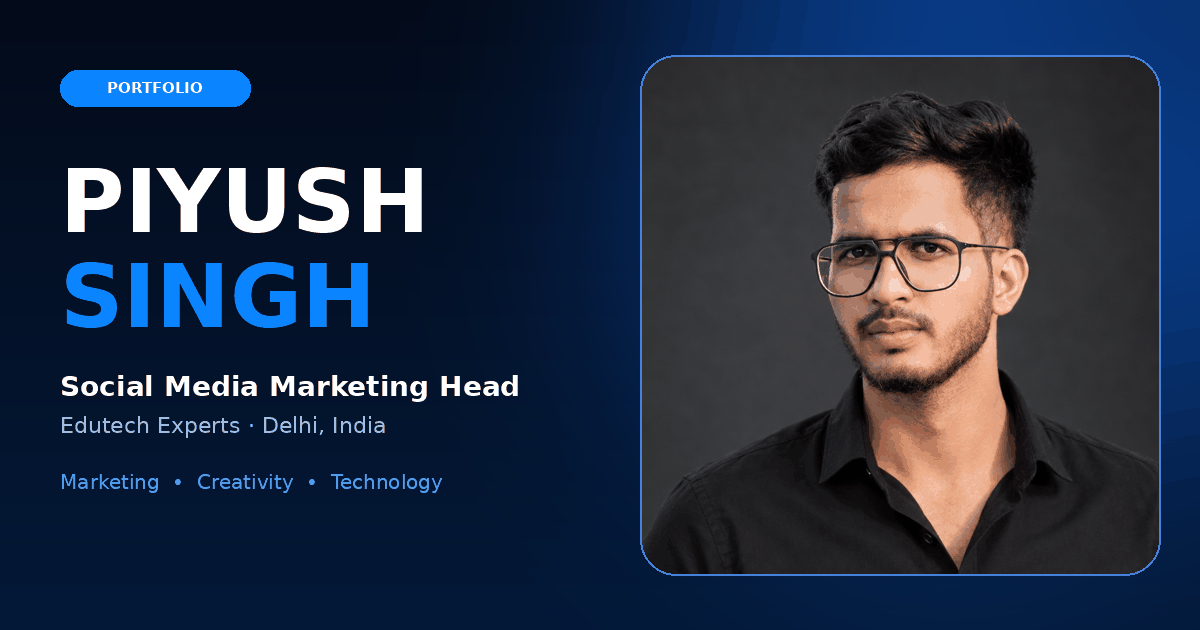
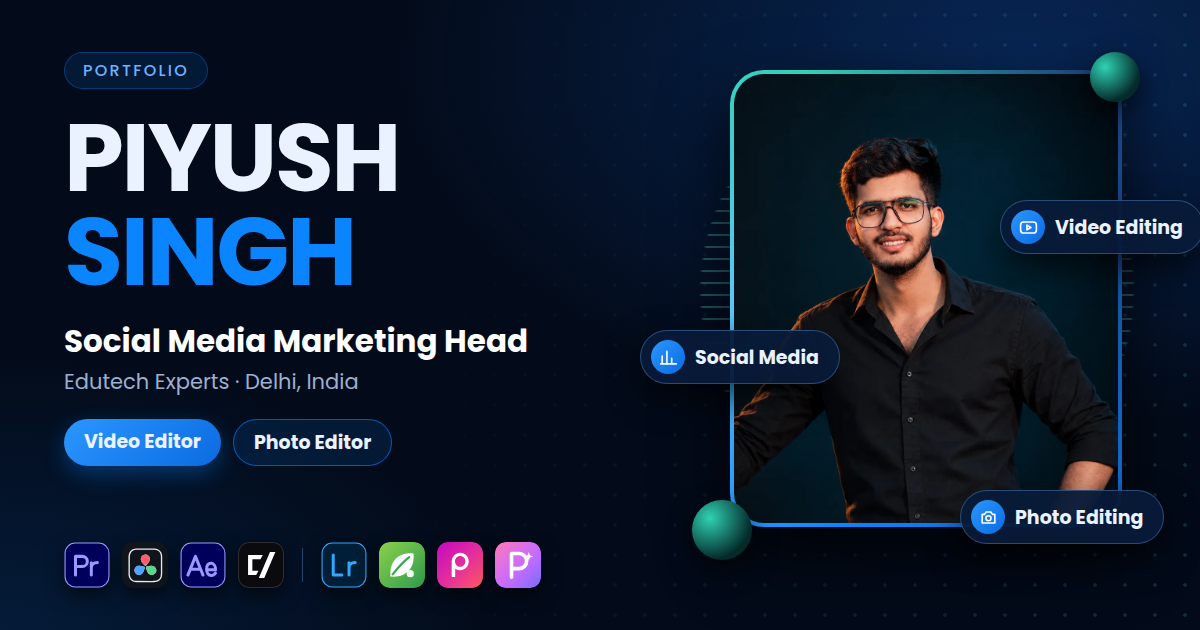
Add files via upload

diff --git a/index.html b/index.html
@@ -9,41 +9,46 @@
 <link rel="canonical" href="https://piyush-portfolio-iota-amber.vercel.app/">
 <meta property="og:type" content="website">
 <meta property="og:site_name" content="Piyush Singh Portfolio">
-<meta property="og:title" content="Piyush Singh | Social Media Marketing Head">
-<meta property="og:description" content="Social Media Marketing Head at Edutech Experts, Delhi. Marketing, creativity and technology.">
+<meta property="og:title" content="Piyush Singh | Social Media Marketing Head, Video &amp; Photo Editor">
+<meta property="og:description" content="Social Media Marketing Head at Edutech Experts, Delhi. Video editing, photo editing, marketing and creative web projects.">
 <meta property="og:url" content="https://piyush-portfolio-iota-amber.vercel.app/">
-<meta property="og:image" content="https://piyush-portfolio-iota-amber.vercel.app/preview.png">
+<meta property="og:image" content="https://piyush-portfolio-iota-amber.vercel.app/preview.png?v=2">
 <meta property="og:image:type" content="image/png">
 <meta property="og:image:width" content="1200">
 <meta property="og:image:height" content="630">
-<meta property="og:image:alt" content="Piyush Singh, Social Media Marketing Head at Edutech Experts">
+<meta property="og:image:alt" content="Piyush Singh, Social Media Marketing Head, Video Editor and Photo Editor at Edutech Experts, Delhi">
 <meta name="twitter:card" content="summary_large_image">
-<meta name="twitter:title" content="Piyush Singh | Social Media Marketing Head">
-<meta name="twitter:description" content="Social Media Marketing Head at Edutech Experts, Delhi. Marketing, creativity and technology.">
-<meta name="twitter:image" content="https://piyush-portfolio-iota-amber.vercel.app/preview.png">
+<meta name="twitter:title" content="Piyush Singh | Social Media Marketing Head, Video &amp; Photo Editor">
+<meta name="twitter:description" content="Social Media Marketing Head at Edutech Experts, Delhi. Video editing, photo editing, marketing and creative web projects.">
+<meta name="twitter:image" content="https://piyush-portfolio-iota-amber.vercel.app/preview.png?v=2">
 <link rel="icon" href="favicon.svg" type="image/svg+xml">
 <link rel="icon" href="favicon.ico" sizes="any">
 <link rel="icon" href="assets/favicon-32.png" type="image/png" sizes="32x32">
 <link rel="apple-touch-icon" href="assets/apple-touch-icon.png">
 <link rel="preconnect" href="https://fonts.googleapis.com"><link rel="preconnect" href="https://fonts.gstatic.com" crossorigin>
 <link href="https://fonts.googleapis.com/css2?family=Space+Grotesk:wght@400;500;600;700&amp;display=swap" rel="stylesheet">
+<link rel="preload" as="image" href="assets/hero-photo-981.webp" type="image/webp" imagesrcset="assets/hero-photo-560.webp 560w, assets/hero-photo-981.webp 981w" imagesizes="(max-width:820px) 86vw, 440px" fetchpriority="high">
 <link rel="stylesheet" href="css/style.css">
 <script>document.documentElement.classList.add("js")</script>
 </head><body>
 <a class="skip" href="#about">Skip to content</a>
 <nav aria-label="Main"><div class="w"><a class="logo" href="#top"><b>P</b>PIYUSH</a>
-<div class="links" id="lk"><a href="#top">Home</a><a href="#about">About</a><a href="#skills">Skills</a><a href="#projects">Projects</a><a href="#contact">Contact</a></div>
+<div class="links" id="lk"><a href="#top">Home</a><a href="#about">About</a><a href="#skills">Skills</a><a href="#video-editing">Video Editing</a><a href="#photo-editing">Photo Editing</a><a href="#projects">Projects</a><a href="#contact">Contact</a></div>
 <a class="btn" href="#contact">Let’s Talk</a><button id="mb" aria-label="Toggle menu" aria-expanded="false" aria-controls="lk">☰</button></div></nav>
 <header id="top"><section id="hero"><div class="w hg">
 <div class="hero-t"><span class="tag">Delhi, India</span>
 <h1 aria-label="Hi! I’m Piyush, Marketing Head">Hi! I’m Piyush<br><span class="b cur" id="ty" aria-hidden="true">Marketing Head</span></h1>
 <p style="margin-top:18px"><b style="color:#fff">Social Media Marketing Head</b> at Edutech Experts. I work on social media, content and digital creativity, and enjoy building practical web and AI projects.</p>
 <div style="display:flex;gap:12px;flex-wrap:wrap;margin-top:24px"><a class="btn" href="#contact">Contact Me →</a><a class="btn o" href="#projects">View My Projects</a></div></div>
-<div class="ph" id="ph"><div class="ring" data-d="14"></div><div class="orb" style="left:8%;top:6%" data-d="30"></div><div class="orb" style="right:4%;bottom:26%;width:44px;height:44px" data-d="-24"></div>
-<img src="assets/hero-photo.jpg" alt="Portrait of Piyush Singh" width="430" height="520" data-d="-8"></div></div></section>
+<div class="ph" id="ph"><div class="ring" data-d="14"></div><div class="orb" style="left:1%;bottom:3%" data-d="30"></div><div class="orb" style="right:0;top:5%;width:44px;height:44px" data-d="-24"></div>
+<div class="pf" data-d="-6"><div class="pf-in"><picture><source type="image/webp" srcset="assets/hero-photo-560.webp 560w, assets/hero-photo-981.webp 981w" sizes="(max-width:820px) 86vw, 440px"><img src="assets/hero-photo.png" alt="Portrait of Piyush Singh" width="981" height="1147" fetchpriority="high" decoding="async"></picture></div>
+<div class="fc fc1" data-d="26" aria-hidden="true"><svg viewBox="0 0 24 24"><path d="M4 20V10M10 20V4M16 20v-7M22 20H2"/></svg><span>Social Media</span></div>
+<div class="fc fc2" data-d="-20" aria-hidden="true"><svg viewBox="0 0 24 24"><rect x="2" y="5" width="20" height="14" rx="4"/><path d="m10 9 5 3-5 3z"/></svg><span>Video Editing</span></div>
+<div class="fc fc3" data-d="18" aria-hidden="true"><svg viewBox="0 0 24 24"><path d="M4 8h3l2-3h6l2 3h3v11H4z"/><circle cx="12" cy="13" r="3.2"/></svg><span>Photo Editing</span></div>
+<span class="sp sp1" aria-hidden="true"></span><span class="sp sp2" aria-hidden="true"></span></div></div></div></section>
 <div class="strip" aria-hidden="true"><div id="mq"></div></div></header>
 <main>
-<section id="about"><div class="w ag"><div class="ap rv"><picture><source srcset="assets/about-photo.webp" type="image/webp"><img src="assets/about-photo.png" alt="Piyush Singh seated at his desk" width="1024" height="1536" loading="lazy" decoding="async"></picture></div>
+<section id="about"><div class="w ag"><div class="ap" data-reveal><span class="ap-grid" aria-hidden="true"></span><span class="ap-back" aria-hidden="true"></span><div class="ap-card"><picture><source type="image/webp" srcset="assets/about-photo-640.webp 640w, assets/about-photo-1145.webp 1145w" sizes="(max-width:820px) 90vw, 470px"><img src="assets/about-photo.png" alt="Piyush Singh seated at his desk with a laptop" width="1145" height="1374" loading="lazy" decoding="async"></picture><span class="ap-shine" aria-hidden="true"></span></div><div class="ap-badge"><b>Social Media Marketing Head</b><small>Edutech Experts, Delhi</small></div><span class="ap-dot d1" aria-hidden="true"></span><span class="ap-dot d2" aria-hidden="true"></span></div>
 <div class="rv"><span class="tag">About Me</span><h2>Marketing <span class="b">+ Technology</span></h2>
 <p>I’m Piyush Singh, a Social Media Marketing Head at Edutech Experts in Delhi, India. I have 6 months of experience in social media management, content planning and digital marketing. Alongside this, I explore landing pages, website projects and AI-assisted workflows, and I enjoy turning ideas into practical projects while continuing to learn.</p>
 <div class="st"><div><b>6 Months</b><small>Experience</small></div><div><b>Delhi</b><small>Location</small></div><div><b id="pcount">7</b><small>Projects</small></div></div>
@@ -55,6 +60,12 @@
 <div class="sk rv"><h3>Web Projects</h3><ul><li>Website Projects</li><li>Landing Page Projects</li></ul></div>
 <div class="sk rv"><h3>AI</h3><ul><li>AI-Assisted Workflows</li></ul></div></div>
 <div class="xp rv"><div><h3>Social Media Marketing Head</h3><p>Edutech Experts · Delhi, India</p></div><span class="tag">6 months</span></div></div></section>
+<section id="video-editing" aria-labelledby="ve-h"><div class="w"><span class="tag">Creative Tools</span><h2 id="ve-h">Video <span class="b">Editing</span></h2>
+<p class="lead rv">The software I use to cut, grade and polish video content.</p>
+<div class="tools"><article class="tool rv" style="--c:#9999ff"><div class="tool-logo"><img src="assets/logos/premiere-pro.svg" alt="" width="64" height="64" loading="lazy" decoding="async"></div><h3>Adobe Premiere Pro</h3><p>Timeline editing</p></article><article class="tool rv" style="--c:#4da3ff"><div class="tool-logo"><img src="assets/logos/davinci-resolve.svg" alt="" width="64" height="64" loading="lazy" decoding="async"></div><h3>DaVinci Resolve</h3><p>Editing &amp; colour grading</p></article><article class="tool rv" style="--c:#9999ff"><div class="tool-logo"><img src="assets/logos/after-effects.svg" alt="" width="64" height="64" loading="lazy" decoding="async"></div><h3>Adobe After Effects</h3><p>Motion graphics &amp; effects</p></article><article class="tool rv" style="--c:#e8ecf1"><div class="tool-logo"><img src="assets/logos/capcut.svg" alt="" width="64" height="64" loading="lazy" decoding="async"></div><h3>CapCut</h3><p>Short-form &amp; social edits</p></article></div></div></section>
+<section id="photo-editing" class="alt" aria-labelledby="pe-h"><div class="w"><span class="tag">Creative Tools</span><h2 id="pe-h">Photo <span class="b">Editing</span></h2>
+<p class="lead rv">The apps I use to retouch, colour and style photos.</p>
+<div class="tools"><article class="tool rv" style="--c:#31a8ff"><div class="tool-logo"><img src="assets/logos/lightroom.svg" alt="" width="64" height="64" loading="lazy" decoding="async"></div><h3>Adobe Lightroom</h3><p>Photo retouching &amp; colour</p></article><article class="tool rv" style="--c:#58c25f"><div class="tool-logo"><img src="assets/logos/snapseed.svg" alt="" width="64" height="64" loading="lazy" decoding="async"></div><h3>Snapseed</h3><p>Mobile photo editing</p></article><article class="tool rv" style="--c:#e6309b"><div class="tool-logo"><img src="assets/logos/picsart.svg" alt="" width="64" height="64" loading="lazy" decoding="async"></div><h3>Picsart</h3><p>Creative edits &amp; design</p></article><article class="tool rv" style="--c:#c96bff"><div class="tool-logo"><img src="assets/logos/prequel.svg" alt="" width="64" height="64" loading="lazy" decoding="async"></div><h3>Prequel</h3><p>Aesthetic filters &amp; effects</p></article></div></div></section>
 <section id="projects"><div class="w"><span class="tag">My Work</span><h2>Recent <span class="b">Projects</span></h2>
 <div class="g3" id="pg"></div>
 <noscript><p>Projects: <a href="https://edutech-blue.vercel.app/">IFP Landing Page</a>, <a href="https://vishal02-tau.vercel.app/">Vishal02 Website</a>, <a href="https://edutech-attendance.vercel.app/">Attendance System</a>, <a href="https://a-to-z-mobile-shop.vercel.app/">A TO Z Mobile Shop</a>.</p></noscript></div></section>
@@ -67,7 +78,7 @@
 <a class="cb c4 rv" href="https://wa.me/918787090913" target="_blank" rel="noopener noreferrer" aria-label="Chat with Piyush Singh on WhatsApp (opens in new tab)"><svg class="f" viewBox="0 0 24 24" aria-hidden="true"><path d="M17.472 14.382c-.297-.149-1.758-.867-2.03-.967-.273-.099-.471-.148-.67.15-.197.297-.767.966-.94 1.164-.173.199-.347.223-.644.075-.297-.15-1.255-.463-2.39-1.475-.883-.788-1.48-1.761-1.653-2.059-.173-.297-.018-.458.13-.606.134-.133.298-.347.446-.52.149-.174.198-.298.298-.497.099-.198.05-.371-.025-.52-.075-.149-.669-1.612-.916-2.207-.242-.579-.487-.5-.669-.51-.173-.008-.371-.01-.57-.01-.198 0-.52.074-.792.372-.272.297-1.04 1.016-1.04 2.479 0 1.462 1.065 2.875 1.213 3.074.149.198 2.096 3.2 5.077 4.487.709.306 1.262.489 1.694.625.712.227 1.36.195 1.871.118.571-.085 1.758-.719 2.006-1.413.248-.694.248-1.289.173-1.413-.074-.124-.272-.198-.57-.347m-5.421 7.403h-.004a9.87 9.87 0 01-5.031-1.378l-.361-.214-3.741.982.998-3.648-.235-.374a9.86 9.86 0 01-1.51-5.26c.001-5.45 4.436-9.884 9.888-9.884 2.64 0 5.122 1.03 6.988 2.898a9.825 9.825 0 012.893 6.994c-.003 5.45-4.437 9.884-9.885 9.884m8.413-18.297A11.815 11.815 0 0012.05 0C5.495 0 .16 5.335.157 11.892c0 2.096.547 4.142 1.588 5.945L.057 24l6.305-1.654a11.882 11.882 0 005.683 1.448h.005c6.554 0 11.89-5.335 11.893-11.893a11.821 11.821 0 00-3.48-8.413z"/></svg><b>Chat on WhatsApp</b><span>+91 8787090913</span></a></div></div></section>
 </main>
 <footer><div class="ft"><div><h4>Piyush Singh</h4><p style="margin:0">Social Media Marketing Head at Edutech Experts<br>Delhi, India</p></div>
-<div><h4>Navigate</h4><a href="#about">About</a><a href="#skills">Skills</a><a href="#projects">Projects</a><a href="#contact">Contact</a></div>
+<div><h4>Navigate</h4><a href="#about">About</a><a href="#skills">Skills</a><a href="#video-editing">Video Editing</a><a href="#photo-editing">Photo Editing</a><a href="#projects">Projects</a><a href="#contact">Contact</a></div>
 <div><h4>Contact</h4><a href="tel:+918787090913">Call: 8787090913</a><a href="mailto:piyushsinghra40@gmail.com">piyushsinghra40@gmail.com</a><a href="https://www.instagram.com/thakur._piyush07/" target="_blank" rel="noopener noreferrer">Instagram</a><a href="https://wa.me/918787090913" target="_blank" rel="noopener noreferrer">WhatsApp</a></div></div>
 <small>© <span id="yr">2026</span> Piyush Singh. All rights reserved.</small></footer>
 <a class="fl" href="https://wa.me/918787090913" target="_blank" rel="noopener noreferrer" aria-label="Chat on WhatsApp (opens in new tab)"><svg viewBox="0 0 24 24" aria-hidden="true"><path d="M17.472 14.382c-.297-.149-1.758-.867-2.03-.967-.273-.099-.471-.148-.67.15-.197.297-.767.966-.94 1.164-.173.199-.347.223-.644.075-.297-.15-1.255-.463-2.39-1.475-.883-.788-1.48-1.761-1.653-2.059-.173-.297-.018-.458.13-.606.134-.133.298-.347.446-.52.149-.174.198-.298.298-.497.099-.198.05-.371-.025-.52-.075-.149-.669-1.612-.916-2.207-.242-.579-.487-.5-.669-.51-.173-.008-.371-.01-.57-.01-.198 0-.52.074-.792.372-.272.297-1.04 1.016-1.04 2.479 0 1.462 1.065 2.875 1.213 3.074.149.198 2.096 3.2 5.077 4.487.709.306 1.262.489 1.694.625.712.227 1.36.195 1.871.118.571-.085 1.758-.719 2.006-1.413.248-.694.248-1.289.173-1.413-.074-.124-.272-.198-.57-.347m-5.421 7.403h-.004a9.87 9.87 0 01-5.031-1.378l-.361-.214-3.741.982.998-3.648-.235-.374a9.86 9.86 0 01-1.51-5.26c.001-5.45 4.436-9.884 9.888-9.884 2.64 0 5.122 1.03 6.988 2.898a9.825 9.825 0 012.893 6.994c-.003 5.45-4.437 9.884-9.885 9.884m8.413-18.297A11.815 11.815 0 0012.05 0C5.495 0 .16 5.335.157 11.892c0 2.096.547 4.142 1.588 5.945L.057 24l6.305-1.654a11.882 11.882 0 005.683 1.448h.005c6.554 0 11.89-5.335 11.893-11.893a11.821 11.821 0 00-3.48-8.413z"/></svg></a>

diff --git a/css/style.css b/css/style.css
@@ -187,3 +187,104 @@ nav.sc{background:#030b1af0;box-shadow:0 10px 30px #0006}
 }
 @media(max-width:620px){.pv{height:160px}.hero-t p{font-size:16px}}
 h3{line-height:1.3}
+
+/* ==========================================================
+   v2 layer: hero + about motion, Video Editing / Photo Editing
+   (appended; everything above is unchanged)
+   Motion uses only transform / opacity / individual
+   translate, rotate and scale properties, so it stays on the GPU.
+   ========================================================== */
+
+/* nav: seven links fit on small laptops and tablets */
+@media(min-width:821px) and (max-width:1080px){.links{gap:16px;font-size:12px;letter-spacing:.04em}}
+@media(min-width:821px) and (max-width:940px){.links{gap:11px;font-size:11px;letter-spacing:.02em}nav .btn{padding:10px 16px;font-size:13px}.logo{font-size:18px}}
+
+/* ---------- HERO ---------- */
+#hero{padding:46px 0 52px}
+.hg{align-items:center}
+.hero-t{padding-bottom:0}
+.ph{padding:10px 0}
+.ph::before{animation:glow 7s ease-in-out infinite}
+.ring{inset:auto;left:50%;top:50%;width:min(112%,540px);aspect-ratio:1;translate:-50% -50%;opacity:.38;animation:spin 90s linear infinite}
+.orb{z-index:2}
+.pf{position:relative;z-index:1;width:min(100%,440px);animation:pfIn 1s var(--ease) .1s both}
+.pf-in{position:relative;padding:3px;border-radius:30px;overflow:hidden;isolation:isolate;background:linear-gradient(135deg,#1b3f78,#0a2447);box-shadow:0 26px 64px #000b,0 0 0 1px #6db3ff22}
+.pf-in::before{content:"";position:absolute;left:50%;top:50%;width:200%;aspect-ratio:1;translate:-50% -50%;z-index:-1;background:conic-gradient(from 0deg,transparent 0 52%,#0a84ff 70%,#5ac8fa 84%,#2fd2b4 92%,transparent);animation:spin 7s linear infinite}
+.ph .pf img{display:block;width:100%;max-width:none;height:auto;aspect-ratio:981/1147;object-fit:cover;object-position:50% 50%;border-radius:27px;-webkit-mask:none;mask:none;background:#0b1a33}
+.fc{position:absolute;z-index:3;display:flex;align-items:center;gap:8px;padding:7px 15px 7px 8px;border-radius:99px;background:#071a38e8;border:1px solid #6db3ff40;box-shadow:0 12px 30px #0008;font-size:13px;font-weight:600;line-height:1.2;white-space:nowrap;animation:fcIn .7s var(--ease) var(--dl,1s) both,fcf var(--fd,7s) ease-in-out calc(var(--dl,1s) + .7s) infinite}
+.fc svg{box-sizing:content-box;width:16px;height:16px;padding:6px;border-radius:50%;background:linear-gradient(135deg,#2b96ff,#0a6be0);stroke:#fff;fill:none;stroke-width:2;stroke-linecap:round;stroke-linejoin:round}
+.fc1{left:-9%;top:56%;--dl:.9s;--fd:7s}
+.fc2{right:-8%;top:24%;--dl:1.1s;--fd:8.5s;--fy:10px}
+.fc3{right:-3%;top:77%;--dl:1.3s;--fd:9s}
+.sp{position:absolute;z-index:3;width:9px;height:9px;border-radius:50%;background:#5ac8fa;box-shadow:0 0 16px 4px #5ac8fa88;animation:tw 3.6s ease-in-out infinite}
+.sp1{left:-4%;top:9%}
+.sp2{right:12%;top:-3%;background:#2fd2b4;box-shadow:0 0 16px 4px #2fd2b488;animation-delay:-1.6s}
+@keyframes pfIn{from{opacity:0;translate:0 28px;scale:.96}}
+@keyframes fcIn{from{opacity:0;scale:.85}}
+@keyframes fcf{50%{translate:0 var(--fy,-10px)}}
+@keyframes spin{to{rotate:360deg}}
+@keyframes glow{50%{opacity:.5}}
+@keyframes tw{50%{opacity:.35;scale:.7}}
+
+/* ---------- ABOUT ---------- */
+.ap{position:relative;isolation:isolate;aspect-ratio:auto;max-height:none;overflow:visible;border:0;border-radius:0;background:none;box-shadow:none;width:100%;max-width:470px;justify-self:center}
+.ap::after{content:none}
+.ap::before{content:"";position:absolute;inset:10% 6% -6%;z-index:-2;background:radial-gradient(closest-side,#0a84ff40,transparent 75%);filter:blur(26px)}
+.ap-card{position:relative;border-radius:24px;overflow:hidden;isolation:isolate;background:var(--card)}
+.ap-card::after{content:"";position:absolute;inset:0;border-radius:inherit;padding:1.5px;pointer-events:none;z-index:3;background:linear-gradient(140deg,#5ac8fa,#0a84ff33 36%,transparent 60%,#2fd2b4aa);-webkit-mask:linear-gradient(#000 0 0) content-box,linear-gradient(#000 0 0);-webkit-mask-composite:xor;mask:linear-gradient(#000 0 0) content-box exclude,linear-gradient(#000 0 0)}
+.ap-card picture{display:block}
+.ap .ap-card img{display:block;width:100%;height:auto;aspect-ratio:1145/1374;object-fit:cover;object-position:50% 30%;transition:transform .9s var(--ease),scale 1.5s var(--ease)}
+.ap:hover img{transform:scale(1.03)}
+.ap-back{position:absolute;inset:0;z-index:-1;border-radius:24px;border:1px solid #5ac8fa4d;background:linear-gradient(160deg,#0a84ff14,transparent 60%);translate:16px 16px}
+.ap-grid{position:absolute;left:-16px;top:-16px;width:120px;height:120px;z-index:-1;background-image:radial-gradient(#5ac8fa88 1.5px,transparent 2px);background-size:14px 14px;-webkit-mask:linear-gradient(135deg,#000,transparent 80%);mask:linear-gradient(135deg,#000,transparent 80%)}
+.ap-shine{position:absolute;inset:0;z-index:2;pointer-events:none;background:linear-gradient(110deg,transparent 42%,#ffffff17 50%,transparent 58%);translate:-110% 0;animation:shine 9s ease-in-out 2.6s infinite}
+.ap-badge{position:absolute;left:-22px;bottom:34px;z-index:4;display:flex;flex-direction:column;padding:11px 18px 11px 15px;border-radius:14px;background:#071a38ea;border:1px solid #6db3ff40;border-left:3px solid var(--ac);box-shadow:0 16px 40px #000a;animation:bf 7s ease-in-out infinite}
+.ap-badge b{font-size:14px;line-height:1.3}.ap-badge small{color:var(--mu);font-size:12px;line-height:1.4}
+.ap-dot{position:absolute;z-index:4;border-radius:50%;animation:bf 6s ease-in-out infinite}
+.ap-dot.d1{right:-9px;top:12%;width:14px;height:14px;background:#2fd2b4;box-shadow:0 0 18px 4px #2fd2b488}
+.ap-dot.d2{left:9%;top:-7px;width:10px;height:10px;background:#5ac8fa;box-shadow:0 0 16px 4px #5ac8fa88;animation-delay:-2s}
+@keyframes shine{0%{translate:-110% 0}24%,100%{translate:110% 0}}
+@keyframes bf{50%{translate:0 -9px}}
+/* reveal (state is added once by main.js and never removed) */
+.js .ap[data-reveal] .ap-card{clip-path:inset(0 0 100% 0 round 24px)}
+.js .ap[data-reveal] .ap-card img{scale:1.16}
+.js .ap[data-reveal] .ap-back{opacity:0;translate:0 0}
+.js .ap[data-reveal] .ap-badge,.js .ap[data-reveal] .ap-dot,.js .ap[data-reveal] .ap-grid{opacity:0}
+.js .ap[data-reveal].on .ap-card{clip-path:inset(0 0 0 0 round 24px);transition:clip-path 1.2s var(--ease)}
+.js .ap[data-reveal].on .ap-card img{scale:1}
+.js .ap[data-reveal].on .ap-back{opacity:1;translate:16px 16px;transition:opacity .9s var(--ease) .35s,translate 1s var(--ease) .35s}
+.js .ap[data-reveal].on .ap-badge,.js .ap[data-reveal].on .ap-dot,.js .ap[data-reveal].on .ap-grid{opacity:1;transition:opacity .8s ease .8s}
+
+/* ---------- VIDEO / PHOTO EDITING ---------- */
+.lead{color:var(--mu);margin:-14px 0 30px;max-width:560px}
+.tools{display:grid;grid-template-columns:repeat(4,1fr);gap:18px}
+.tool{--c:#0a84ff;position:relative;isolation:isolate;overflow:hidden;display:flex;flex-direction:column;align-items:center;text-align:center;gap:4px;padding:30px 18px 26px;border-radius:var(--r);background:linear-gradient(180deg,#0d2449,#0a1c3b);border:1px solid var(--ln);transition:transform .35s var(--ease),border-color .3s,box-shadow .35s}
+.tool::before{content:"";position:absolute;inset:0;z-index:-1;background:radial-gradient(circle at 50% 0%,color-mix(in srgb,var(--c) 26%,transparent),transparent 62%);opacity:.55;transition:opacity .3s}
+.tool-logo{width:76px;height:76px;margin-bottom:12px;filter:drop-shadow(0 10px 18px color-mix(in srgb,var(--c) 42%,transparent));transition:transform .45s var(--ease)}
+.tool-logo img{display:block;width:100%;height:100%}
+.tool h3{margin:0;font-size:17px;letter-spacing:-.01em}
+.tool p{margin:0;color:var(--mu);font-size:13.5px;line-height:1.5}
+@media(hover:hover){
+.tool:hover{transform:translateY(-6px);border-color:var(--c);box-shadow:0 18px 40px color-mix(in srgb,var(--c) 28%,transparent)}
+.tool:hover::before{opacity:1}
+.tool:hover .tool-logo{transform:translateY(-2px) scale(1.07) rotate(-3deg)}}
+
+/* ---------- RESPONSIVE ---------- */
+@media(max-width:900px){.tools{grid-template-columns:repeat(2,1fr)}}
+@media(max-width:820px){
+#hero{padding:34px 0 44px}
+.ph{padding:10px 18px}
+.pf{width:min(100%,400px)}
+.ap{max-width:460px}
+.ap-badge{left:12px;bottom:14px;padding:9px 14px 9px 12px}
+.ap-badge b{font-size:13px}
+.ap-grid{left:-10px;top:-10px}
+.ap-dot.d1{right:-6px}}
+@media(max-width:480px){
+.fc{font-size:12px;padding:6px 12px 6px 7px}
+.fc svg{width:14px;height:14px;padding:5px}}
+@media(max-width:420px){
+.tools{gap:12px}.tool{padding:22px 12px 20px}.tool-logo{width:64px;height:64px}.tool h3{font-size:15px}.tool p{font-size:12.5px}}
+
+/* pause looping animations while their section is off-screen (set by main.js) */
+.paused *,.paused *::before,.paused *::after{animation-play-state:paused!important}

diff --git a/js/main.js b/js/main.js
@@ -22,17 +22,22 @@ if(pg)pg.innerHTML=P.map(function(p){var c=p.c.split(",");
 return '<article class="pc rv"><div class="pv" style="background:linear-gradient(135deg,'+c[0]+','+c[1]+')"><span class="st-l '+p.k+'">'+p.s+'</span>'+p.i+'</div><h3>'+esc(p.t)+'</h3><p>'+esc(p.d)+'</p><div class="pt">'+p.g.map(function(x){return"<span>"+esc(x)+"</span>"}).join("")+'</div><div class="pb">'+(p.u?'<a href="'+p.u+'" target="_blank" rel="noopener noreferrer">View Live Project ↗</a>':'<span class="n">'+(p.k==="d"?"Not publicly available yet":"Channel link will be added")+'</span>')+'</div></article>'}).join("");
 var pcn=document.getElementById("pcount");if(pcn)pcn.textContent=P.length;
 var mq=document.getElementById("mq");
-if(mq){var w=["Social Media","Content Planning","Digital Content","Campaign Concepts","Landing Pages","AI-Assisted Workflows"];mq.innerHTML=w.map(function(x){return"<span>"+x+" <i>✦</i></span>"}).join("").repeat(2)}
+if(mq){var w=["Social Media","Content Planning","Digital Content","Campaign Concepts","Landing Pages","Video Editing","Photo Editing","AI-Assisted Workflows"];mq.innerHTML=w.map(function(x){return"<span>"+x+" <i>✦</i></span>"}).join("").repeat(2)}
 var yr=document.getElementById("yr");if(yr)yr.textContent=new Date().getFullYear();
 var lk=document.getElementById("lk"),mb=document.getElementById("mb");
 mb.addEventListener("click",function(){var o=lk.classList.toggle("o");mb.setAttribute("aria-expanded",o)});
 lk.querySelectorAll("a").forEach(function(a){a.addEventListener("click",function(){lk.classList.remove("o");mb.setAttribute("aria-expanded","false")})});
 document.addEventListener("keydown",function(e){if(e.key==="Escape"&&lk.classList.contains("o")){lk.classList.remove("o");mb.setAttribute("aria-expanded","false");mb.focus()}});
-var nv=document.querySelector("nav"),sc=["about","skills","projects","contact"].map(function(id){return document.getElementById(id)}).filter(Boolean),nl=lk.querySelectorAll("a");
+var nv=document.querySelector("nav"),sc=["about","skills","video-editing","photo-editing","projects","contact"].map(function(id){return document.getElementById(id)}).filter(Boolean),nl=lk.querySelectorAll("a");
 function spy(){var cur="top",y=40+(window.innerHeight*.25);sc.forEach(function(x){if(x.getBoundingClientRect().top<=y)cur=x.id});if(innerHeight+scrollY>=document.documentElement.scrollHeight-4)cur="contact";
 nl.forEach(function(a){var on=a.getAttribute("href")==="#"+cur;a.classList.toggle("act",on);if(on)a.setAttribute("aria-current","true");else a.removeAttribute("aria-current")});nv.classList.toggle("sc",scrollY>8)}
 addEventListener("scroll",spy,{passive:true});spy();
 var rm=matchMedia("(prefers-reduced-motion:reduce)").matches;
+/* about photo: one-time premium reveal (class "on" is added once and kept) */
+var rvl=document.querySelectorAll("[data-reveal]");
+if("IntersectionObserver" in window&&!rm){var ro=new IntersectionObserver(function(e){e.forEach(function(x){if(x.isIntersecting){x.target.classList.add("on");ro.unobserve(x.target)}})},{threshold:.2});rvl.forEach(function(n){ro.observe(n)})}else rvl.forEach(function(n){n.classList.add("on")});
+/* pause looping animations while the hero / about photo are off-screen */
+if("IntersectionObserver" in window&&!rm){var po=new IntersectionObserver(function(e){e.forEach(function(x){x.target.classList.toggle("paused",!x.isIntersecting)})},{rootMargin:"80px"});["hero","about"].forEach(function(id){var n=document.getElementById(id);if(n)po.observe(n)})}
 var rv=document.querySelectorAll(".rv");
 if("IntersectionObserver" in window){var io=new IntersectionObserver(function(e){e.forEach(function(x){if(x.isIntersecting){var t=x.target;t.classList.add("in");io.unobserve(t);setTimeout(function(){t.style.transitionDelay="";t.classList.remove("rv","in")},1300)}})},{threshold:.12});
 rv.forEach(function(e,i){e.style.transitionDelay=(i%4)*80+"ms";io.observe(e)})}else rv.forEach(function(e){e.classList.add("in")});
@@ -40,8 +45,8 @@ if(rm)return;
 var el=document.getElementById("ty"),tw=["Marketing Head","Content Creator","Web Explorer"],i=0,j=0,del=0;
 if(el)(function t(){var s=tw[i];j+=del?-1:1;el.textContent=s.slice(0,j);var d=del?40:90;if(!del&&j===s.length){del=1;d=1500}else if(del&&j===0){del=0;i=(i+1)%tw.length;d=300}setTimeout(t,d)})();
 if(matchMedia("(hover:hover)").matches){
-var ph=document.getElementById("ph");
-document.addEventListener("mousemove",function(e){var x=e.clientX/innerWidth-.5,y=e.clientY/innerHeight-.5;ph.querySelectorAll("[data-d]").forEach(function(n){var d=+n.dataset.d;n.style.transform="translate("+x*d+"px,"+y*d+"px)"})});
+var ph=document.getElementById("ph"),pn=ph?ph.querySelectorAll("[data-d]"):[],pf=0,px=0,py=0;
+document.addEventListener("mousemove",function(e){px=e.clientX/innerWidth-.5;py=e.clientY/innerHeight-.5;if(pf)return;pf=requestAnimationFrame(function(){pf=0;pn.forEach(function(n){var d=+n.dataset.d;n.style.transform="translate("+(px*d).toFixed(1)+"px,"+(py*d).toFixed(1)+"px)"})})},{passive:true});
 document.querySelectorAll(".pc").forEach(function(c){var f=0;c.addEventListener("mousemove",function(e){var r=c.getBoundingClientRect(),x=(e.clientX-r.left)/r.width,y=(e.clientY-r.top)/r.height;cancelAnimationFrame(f);f=requestAnimationFrame(function(){c.style.setProperty("--mx",(x*100).toFixed(1)+"%");c.style.setProperty("--my",(y*100).toFixed(1)+"%");c.style.transform="perspective(900px) rotateY("+((x-.5)*7).toFixed(2)+"deg) rotateX("+((.5-y)*7).toFixed(2)+"deg) translateY(-6px)"})});c.addEventListener("mouseleave",function(){cancelAnimationFrame(f);c.style.transform=""})});
 document.querySelectorAll(".cb").forEach(function(c){c.addEventListener("mousemove",function(e){var r=c.getBoundingClientRect();c.style.setProperty("--x",(e.clientX-r.left)+"px");c.style.setProperty("--y",(e.clientY-r.top)+"px")})})}
 })();
